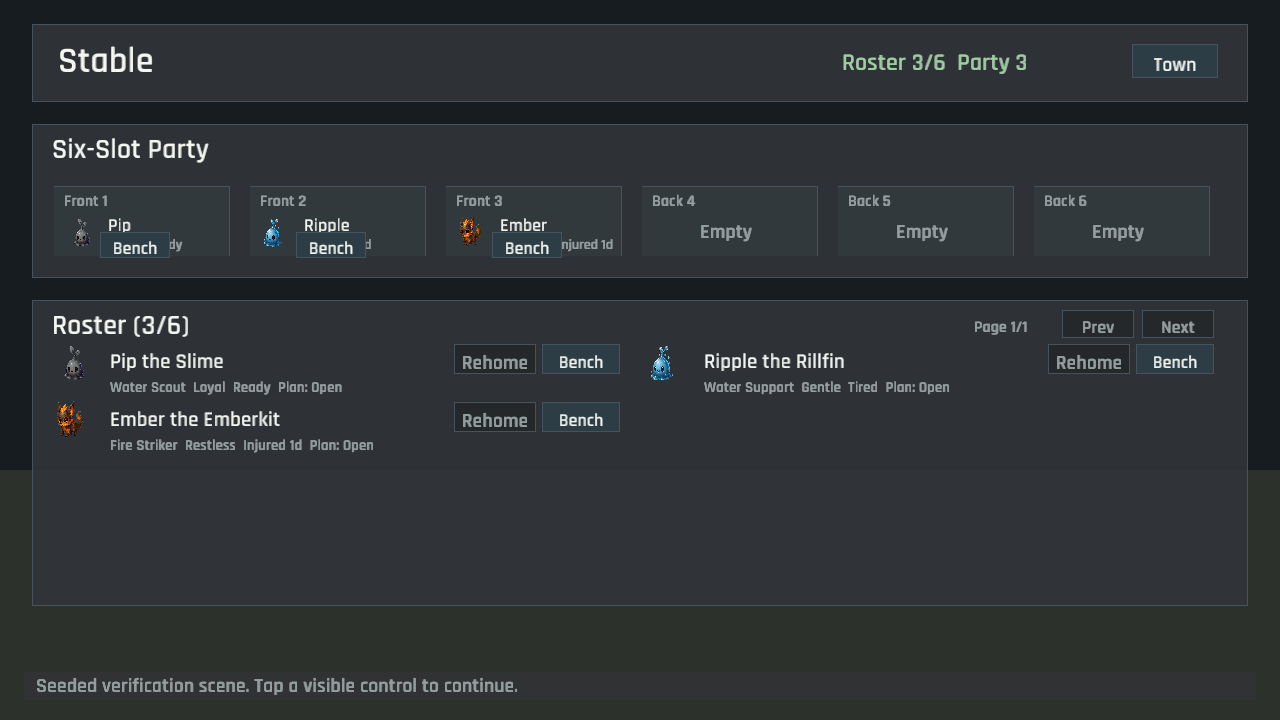
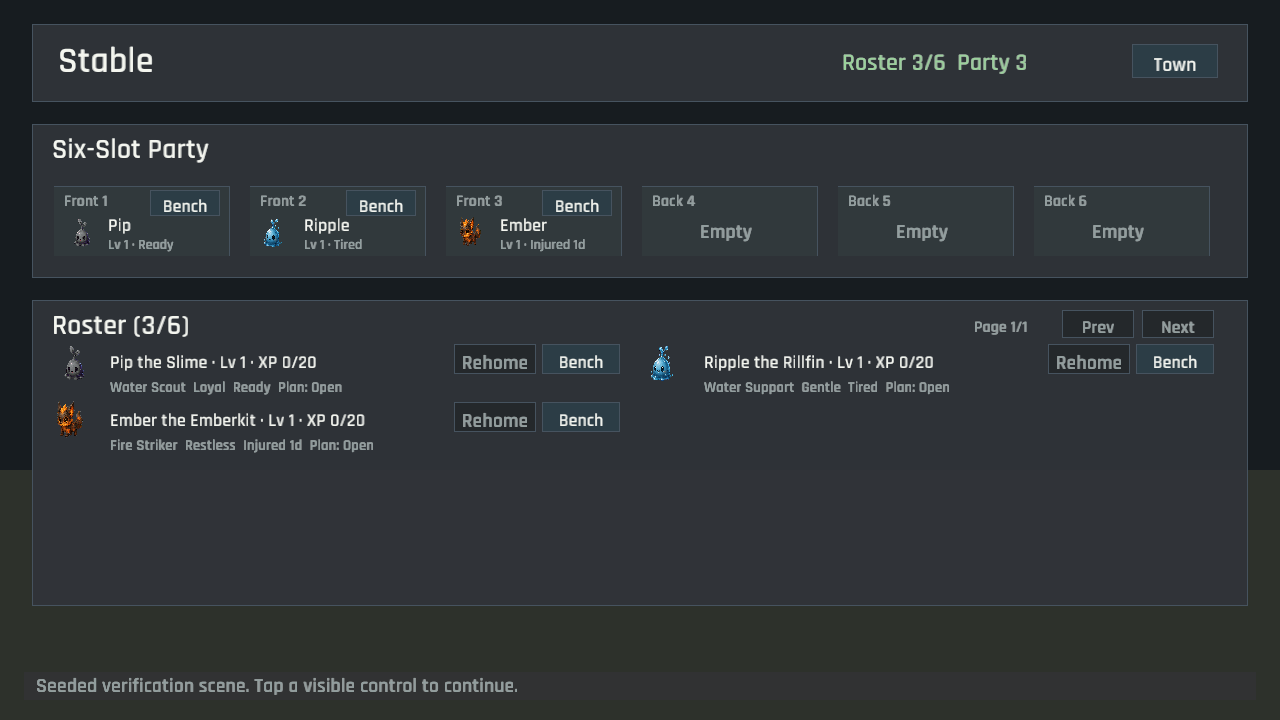
The stable ledger charts the climb to the crown (natural XP progression and roster visibility)
Dungeon Prep could recommend a floor level, but the Stable hid each companion's level and XP progress, and the campaign had no proof that ordinary revisit encounters could produce the strength assumed by deep-floor balance fixtures.

Show level and XP-to-next-level on every roster entry, show level and condition on party cards, and move Bench controls clear of those labels. Add a deterministic campaign regression that begins with three level-one companions, trains only against encounters present on generated revisit maps, remains within 45 victories through level ten, and defeats both authored guardians.

Validated with 149 unit tests plus every integration, standards, metadata, and soak target, strict Clippy, desktop and 960x540 Stable captures, and publish.ps1 for Windows and WebGL preview deployment.

diff --git a/src/engine/combat_engine/campaign_tests.rs b/src/engine/combat_engine/campaign_tests.rs
@@ -1,7 +1,7 @@
 use super::*;
 use crate::data::{GameData, GameDataLoader, MonsterRole};
 use crate::engine::{day_engine, tower_engine};
-use crate::state::{DailyCommitment, TowerRunGoal};
+use crate::state::{DailyCommitment, TowerMapObjectKind, TowerRunGoal};
 
 #[test]
 fn three_member_same_level_party_can_clear_every_deep_encounter() {
@@ -88,6 +88,112 @@ fn deep_victory_sleep_and_reentry_form_a_recoverable_cycle() {
         state.tower_run.as_ref().map(|run| run.current_floor),
         Some(floor)
     );
+}
+
+#[test]
+fn fresh_party_can_train_through_revisits_and_defeat_both_guardians() {
+    let data = GameDataLoader::load_embedded().expect("embedded data should load");
+    let mut state = trained_party(&data, 1, 1_001);
+    state.monster_roster.party_slots[3..].fill(None);
+    let party_ids = state
+        .monster_roster
+        .party_slots
+        .iter()
+        .flatten()
+        .copied()
+        .collect::<Vec<_>>();
+    for id in party_ids {
+        state.monster_roster.monster_mut(id).unwrap().bond = 1;
+    }
+    let mut training_victories = 0;
+
+    for target_floor in 2..=10 {
+        state.tower_progress.unlocked_floor = target_floor;
+        let previous_floor = target_floor - 1;
+        let training_floor = data
+            .tower_floor(previous_floor)
+            .filter(|floor| floor.guardian_enemy_id.is_empty() && !floor.is_boss_floor)
+            .map_or(previous_floor.saturating_sub(1).max(1), |floor| floor.floor);
+        while ready_party_average_level(&state) < target_floor {
+            complete_mapped_victory(&mut state, &data, training_floor, None);
+            training_victories += 1;
+            assert!(
+                training_victories < 100,
+                "campaign training should remain bounded"
+            );
+        }
+
+        if let Some(guardian) = data.enemies.iter().find(|enemy| {
+            enemy.is_boss && enemy.min_floor <= target_floor && enemy.max_floor >= target_floor
+        }) {
+            complete_mapped_victory(&mut state, &data, target_floor, Some(&guardian.id));
+        }
+    }
+
+    assert!(
+        training_victories <= 45,
+        "natural leveling requires {training_victories} repeat fights"
+    );
+    assert!(ready_party_average_level(&state) >= 10);
+}
+
+fn complete_mapped_victory(
+    state: &mut GameState,
+    data: &GameData,
+    floor: u32,
+    guardian_id: Option<&str>,
+) {
+    tower_engine::start_run_on_floor(state, data, TowerRunGoal::Balanced, floor);
+    assert!(state.tower_run.is_some());
+    let enemy_id = state
+        .tower_run
+        .as_ref()
+        .unwrap()
+        .map
+        .objects
+        .iter()
+        .filter(|object| {
+            if let Some(guardian_id) = guardian_id {
+                object.kind == TowerMapObjectKind::Boss && object.enemy_id == guardian_id
+            } else {
+                object.kind == TowerMapObjectKind::Enemy
+            }
+        })
+        .filter_map(|object| data.enemy(&object.enemy_id))
+        .max_by_key(|enemy| enemy.xp_reward)
+        .expect("generated campaign floor should contain the requested encounter")
+        .id
+        .clone();
+    start_named_encounter(
+        state,
+        data,
+        floor,
+        data.enemy(&enemy_id).unwrap().is_boss,
+        Some(&enemy_id),
+    );
+    run_tactical_policy(state, data);
+    assert_eq!(
+        state.combat.as_ref().and_then(|combat| combat.outcome),
+        Some(CombatOutcome::Victory),
+        "natural party lost to {enemy_id} on floor {floor} at average level {}",
+        ready_party_average_level(state)
+    );
+    assert_eq!(
+        finish_combat(state, data).destination,
+        CombatDestination::Tower
+    );
+    tower_engine::return_to_town(state, data);
+    for _ in 0..3 {
+        day_engine::sleep(state, data);
+        if tower_engine::battle_ready_party_count(state) == 3 {
+            break;
+        }
+    }
+    assert_eq!(tower_engine::battle_ready_party_count(state), 3);
+}
+
+fn ready_party_average_level(state: &GameState) -> u32 {
+    tower_engine::battle_ready_party_average_level(state).unwrap_or(0)
 }
 
 fn trained_party(data: &GameData, level: u32, seed: u64) -> GameState {

diff --git a/src/screens/stable.rs b/src/screens/stable.rs
@@ -84,7 +84,7 @@ pub fn draw(
 ) {
     draw_backdrop();
     draw_header(state);
-    draw_party(state, data);
+    draw_party(state);
     draw_roster(state, data, roster_page);
     if let Some(monster_id) = pending_rehome {
         draw_rehome_confirmation(state, data, monster_id);
@@ -144,7 +144,7 @@ fn draw_header(state: &GameState) {
     ui::draw_button(town_button_rect(), "Town", true);
 }
 
-fn draw_party(state: &GameState, data: &GameData) {
+fn draw_party(state: &GameState) {
     let rect = Rect::new(32.0, 124.0, ui::VIEW_WIDTH - 64.0, 154.0);
     ui::draw_panel(rect);
     ui::draw_section_title("Six-Slot Party", rect.x + 20.0, rect.y + 34.0);
@@ -169,10 +169,6 @@ fn draw_party(state: &GameState, data: &GameData) {
         if let Some(monster_id) = slot {
             if let Some(monster) = state.monster_roster.monster(*monster_id) {
                 assets::draw_monster_badge(&monster.species_id, x + 10.0, y + 28.0, 34.0);
-                let species_name = data
-                    .species(&monster.species_id)
-                    .map(|species| species.name.as_str())
-                    .unwrap_or(monster.species_id.as_str());
                 draw_ui_text_ex(
                     &monster.name,
                     x + 54.0,
@@ -185,8 +181,8 @@ fn draw_party(state: &GameState, data: &GameData) {
                 );
                 draw_ui_text_ex(
                     &format!(
-                        "{}  {}",
-                        species_name,
+                        "Lv {} · {}",
+                        monster.level,
                         monster_engine::condition_label(monster)
                     ),
                     x + 54.0,
@@ -257,11 +253,16 @@ fn draw_roster(state: &GameState, data: &GameData, roster_page: usize) {
             .unwrap_or(monster.species_id.as_str());
         assets::draw_monster_badge(&monster.species_id, x, y - 28.0, 42.0);
         draw_ui_text_ex(
-            &format!("{} the {}", monster.name, species_name),
+            &format!(
+                "{} the {} · {}",
+                monster.name,
+                species_name,
+                level_progress_label(monster.level, monster.xp)
+            ),
             x + 58.0,
             y,
             TextParams {
-                font_size: 21,
+                font_size: 18,
                 color: ui::TEXT_BRIGHT,
                 ..Default::default()
             },
@@ -302,6 +303,10 @@ fn draw_roster(state: &GameState, data: &GameData, roster_page: usize) {
             state.monster_roster.monsters.len() > 1 && !in_party,
         );
     }
+}
+
+fn level_progress_label(level: u32, xp: u32) -> String {
+    format!("Lv {level} · XP {xp}/{}", level.saturating_mul(20))
 }
 
 fn draw_rehome_confirmation(state: &GameState, data: &GameData, monster_id: u64) {
@@ -354,7 +359,7 @@ fn town_button_rect() -> Rect {
 }
 
 fn slot_button_rect(index: usize) -> Rect {
-    Rect::new(100.0 + index as f32 * 196.0, 232.0, 70.0, 26.0)
+    Rect::new(150.0 + index as f32 * 196.0, 190.0, 70.0, 26.0)
 }
 
 fn roster_button_rect(index: usize) -> Rect {

diff --git a/src/screens/stable/tests.rs b/src/screens/stable/tests.rs
@@ -9,3 +9,9 @@ fn roster_pages_expose_every_stable_slot_and_clamp_stale_pages() {
     assert_eq!(roster_page_bounds(12, 1), 8..12);
     assert_eq!(roster_page_bounds(3, 99), 0..3);
 }
+
+#[test]
+fn level_progress_names_the_next_level_threshold() {
+    assert_eq!(level_progress_label(1, 7), "Lv 1 · XP 7/20");
+    assert_eq!(level_progress_label(6, 45), "Lv 6 · XP 45/120");
+}

diff --git a/README.md b/README.md
@@ -10,6 +10,7 @@ You begin with a loyal slime, a cold hatchery brazier, and just enough supplies 
 - Hatch, raise, rest, and organize tower-born monsters.
 - Page through every Stable slot and safely rehome a benched companion when a full roster blocks
   further hatching.
+- Review each companion's level and XP-to-next-level progress in the Stable before choosing a party.
 - Choose a battle-ready party before entering the tower; expedition prep shows its average level
   beside the selected floor's suggested level and blocks entry when nobody is ready.
 - Follow an optional, persistent first-expedition guide through Hatchery construction, dungeon
@@ -82,6 +83,8 @@ The ten-floor tower currently includes:
   expedition goal, and a broad deterministic seed sweep.
 - Deep-floor balance regressions exercise every floor 4–10 enemy and both guardians with a
   three-companion party, plus a victory, overnight recovery, and same-floor re-entry cycle.
+- Natural-progression coverage starts three companions at level one, trains only through encounters
+  present on generated revisit maps, and clears both guardians by level ten within 45 victories.
 - An authored floor-10 conclusion that banks the final expedition, records the restored Verdant
   Crown, celebrates the active party, and keeps post-story expeditions available.
 

diff --git a/PLAYER_README.md b/PLAYER_README.md
@@ -33,6 +33,8 @@ buttons to revisit earlier floors, then choose the expedition goal that fits wha
 The prep card compares the battle-ready party's average level with the selected floor's suggested
 level. If nobody is ready, expedition goals stay disabled; tap **Town**, open **Stable**, and assign
 rested, uncommitted companions before returning.
+The Stable shows every companion's current level and XP progress. Revisit earlier unlocked floors
+when the party needs training; map encounters continue awarding XP on return expeditions.
 To unlock the next floor, explore until the party physically reaches the stairs. Entering a floor,
 winning an ordinary fight, or retreating does not open a deeper route.
 

diff --git a/TODO.md b/TODO.md
@@ -36,6 +36,8 @@ and open-ended external toolchain decisions are intentionally excluded.
 - [x] Add deterministic replay tests for victory, defeat, fleeing, and item use.
 - [x] Regression-test every deep-floor enemy and guardian with a three-monster same-level party.
 - [x] Regression-test deep victory, overnight recovery, and same-floor re-entry as one playable loop.
+- [x] Prove a fresh three-monster party can level through generated-map revisits and beat both guardians.
+- [x] Show individual level and XP-to-next-level progress in the Stable for training decisions.
 
 ## Verification captures
 
